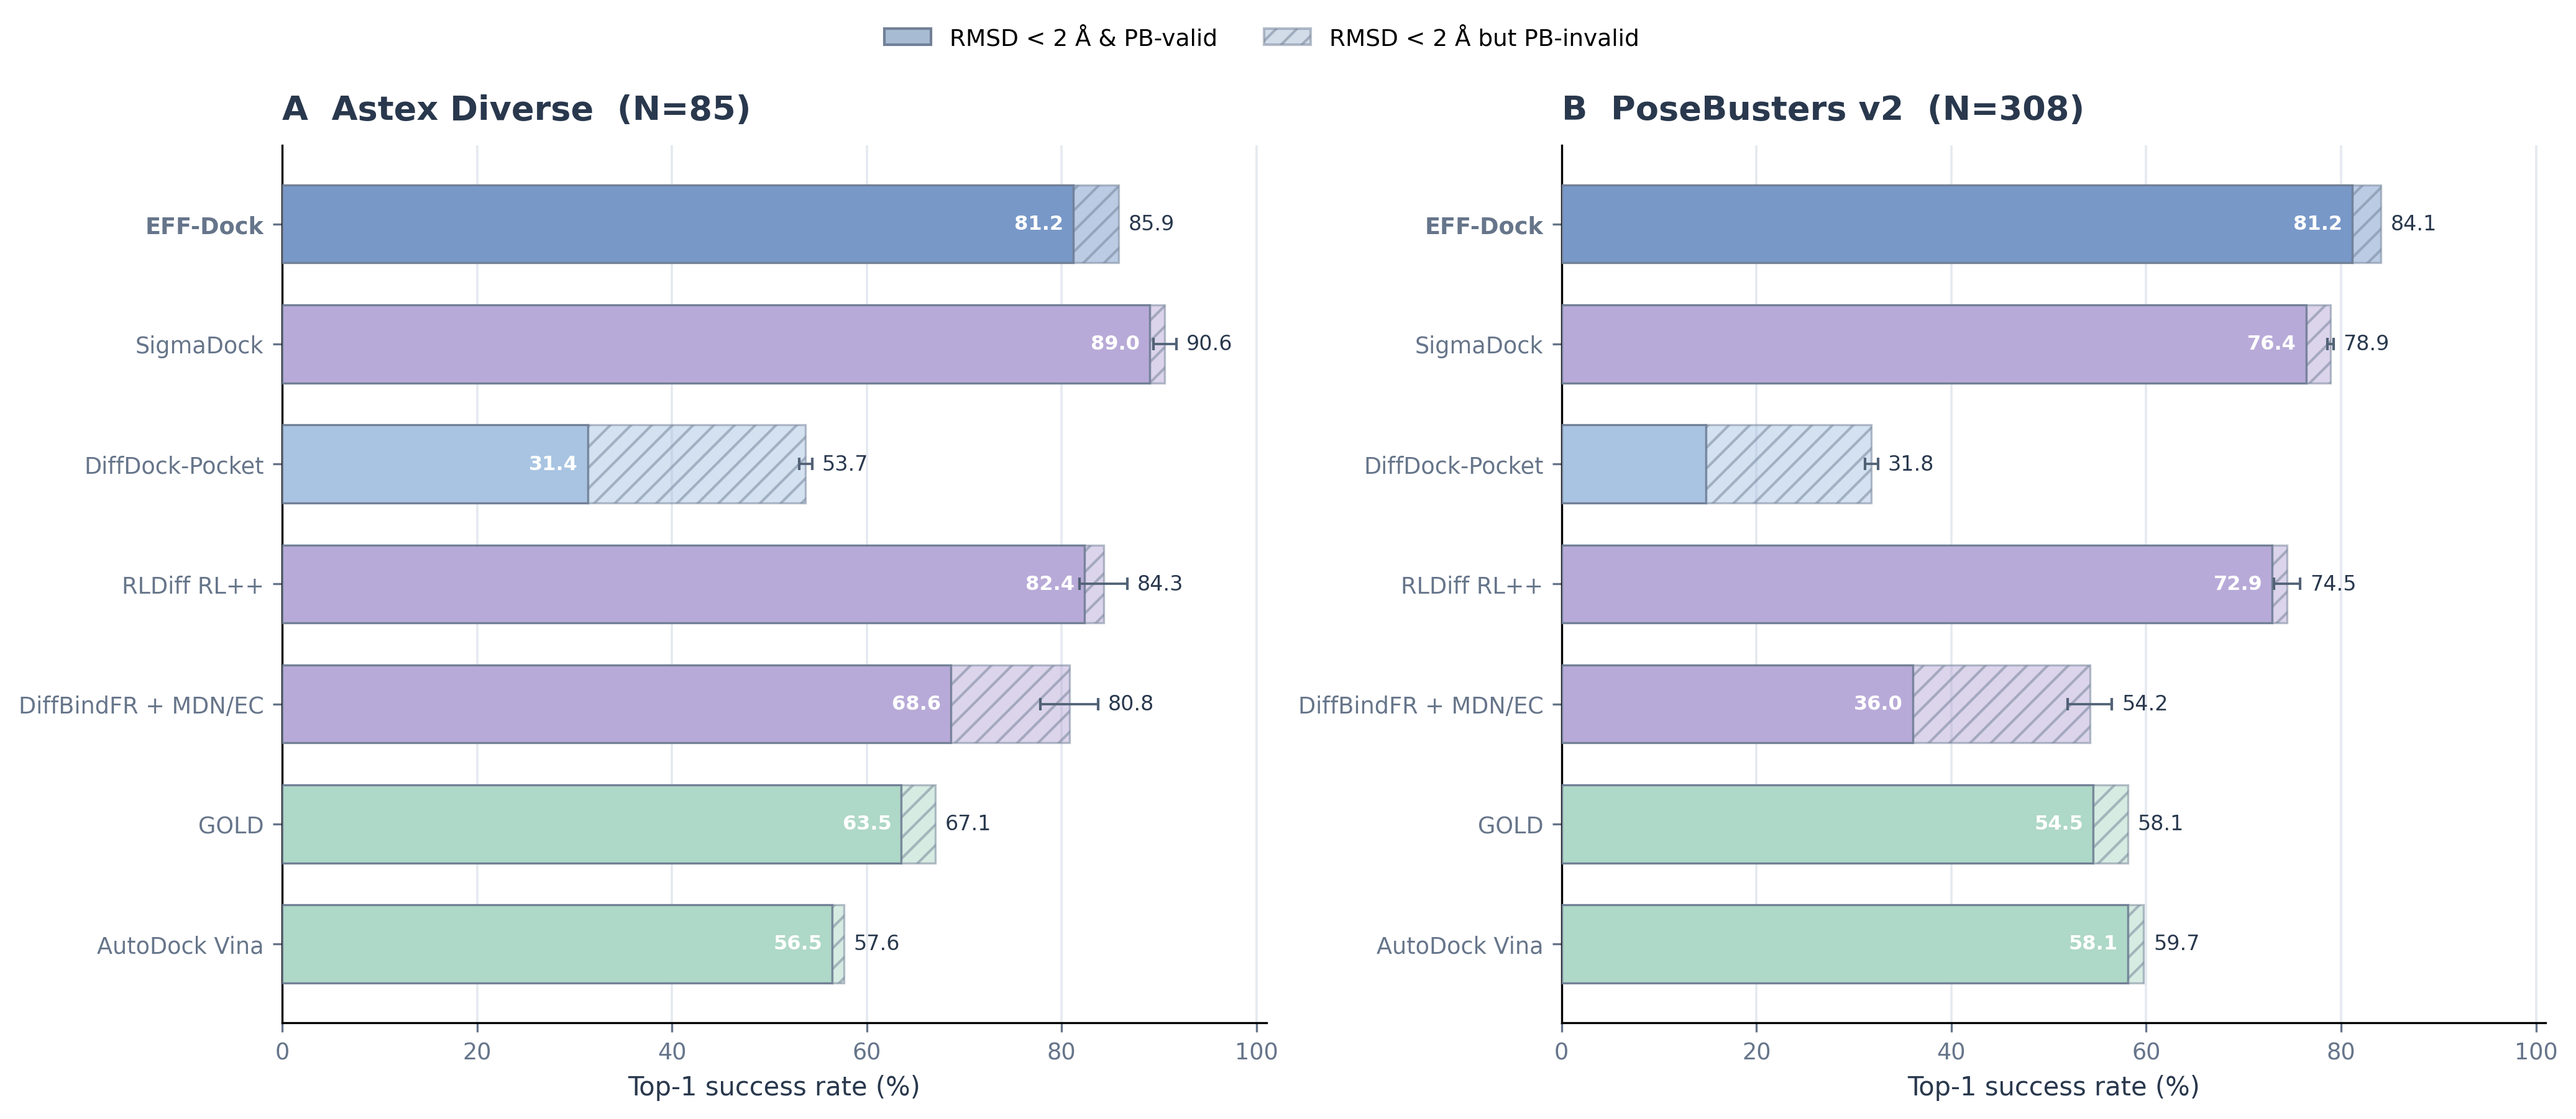
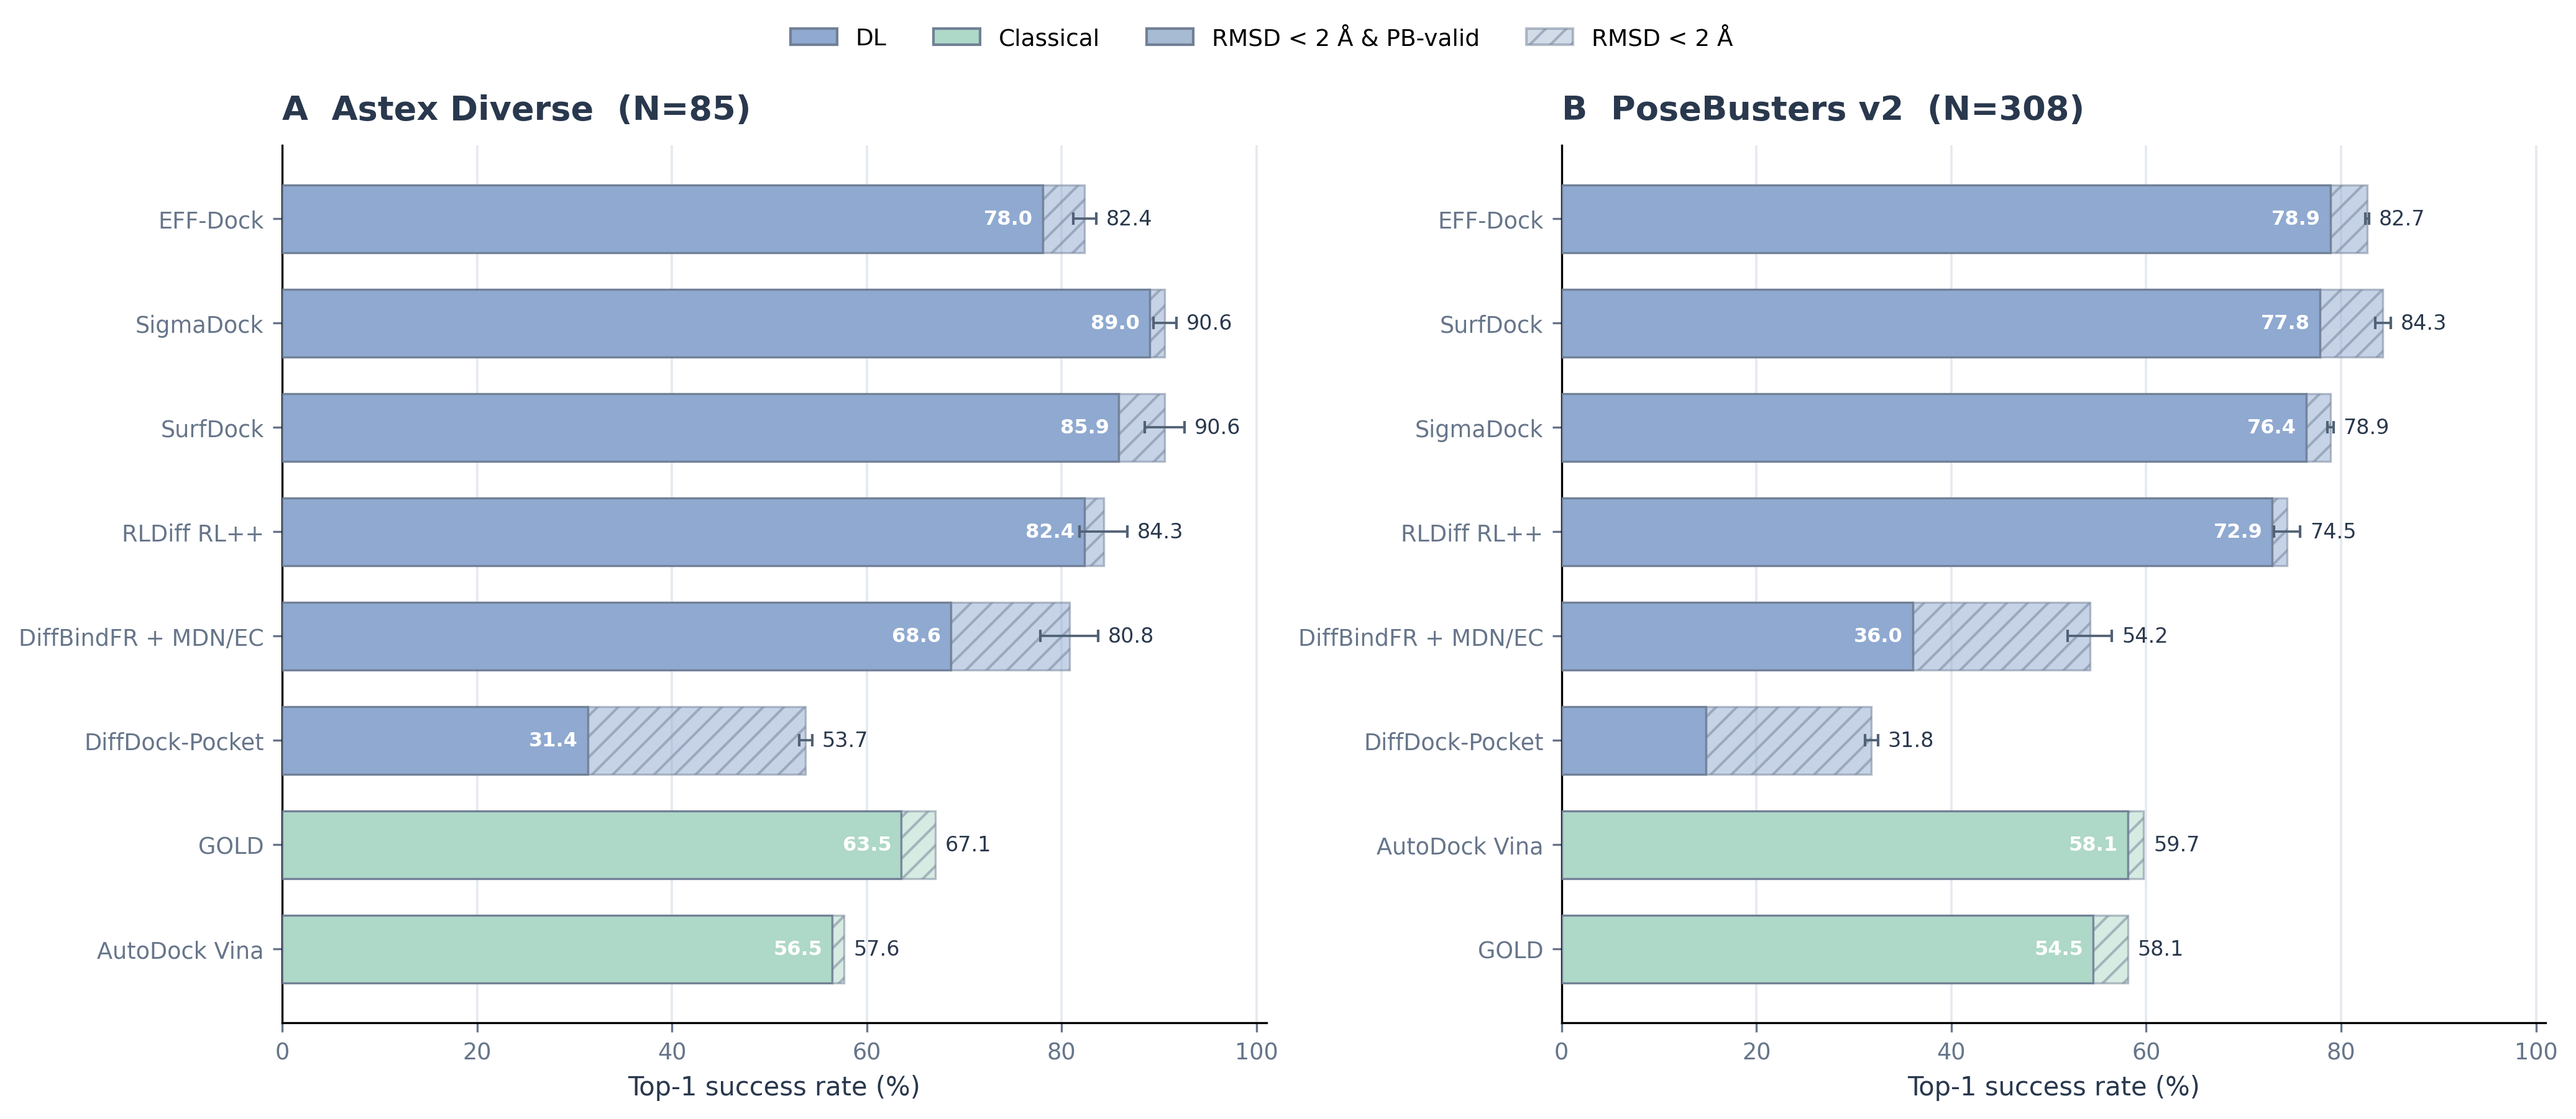
docs: update pocket benchmark comparison figure

diff --git a/benchmarks/figures/plot_current_results_overview.py b/benchmarks/figures/plot_current_results_overview.py
@@ -41,9 +41,7 @@ COLORS = {
     "joint": "#6FAFA8",
     "valid": "#A8D5BA",
     "oracle": "#E7A77E",
-    "ours": "#7898C8",
-    "learning": "#A9C4E2",
-    "hybrid": "#B8AAD8",
+    "dl": "#8FA9D0",
     "classical": "#AED8C7",
 }
 
@@ -76,7 +74,7 @@ def save_figure(fig: plt.Figure, base: Path, dpi: int) -> None:
 def write_csv(path: Path, fieldnames: list[str], rows: list[dict]) -> None:
     path.parent.mkdir(parents=True, exist_ok=True)
     with path.open("w", encoding="utf-8", newline="") as handle:
-        writer = csv.DictWriter(handle, fieldnames=fieldnames)
+        writer = csv.DictWriter(handle, fieldnames=fieldnames, lineterminator="\n")
         writer.writeheader()
         writer.writerows(rows)
 
@@ -402,24 +400,54 @@ def plot_external(payload: dict, output_dir: Path, dpi: int) -> None:
         raise ValueError("external comparison must be supplied-pocket-only")
     fig, axes = plt.subplots(1, 2, figsize=(14.2, 6.2), sharex=True)
     legend_handles = [
+        Patch(facecolor=COLORS["dl"], edgecolor=EDGE, label="DL"),
+        Patch(facecolor=COLORS["classical"], edgecolor=EDGE, label="Classical"),
         Patch(facecolor="#A7BBD2", edgecolor=EDGE, label="RMSD < 2 Å & PB-valid"),
         Patch(
             facecolor="#A7BBD2",
             edgecolor=EDGE,
             alpha=0.5,
             hatch="///",
-            label="RMSD < 2 Å but PB-invalid",
+            label="RMSD < 2 Å",
         ),
     ]
     csv_rows: list[dict] = []
     for ax, key, letter in zip(axes, ("astex", "posebusters"), ("A", "B"), strict=True):
         dataset = payload["datasets"][key]
-        methods = dataset["methods"]
+        # Keep the production EFF-Dock condition first, rank learned docking
+        # methods by Top-1, then retain classical docking as a bottom block.
+        methods = [method for method in dataset["methods"] if method["method"] != "SurfDock"]
+        effdock = [method for method in methods if method["method"] == "EFF-Dock"]
+        if len(effdock) != 1:
+            raise ValueError(f"expected exactly one EFF-Dock row for {key}")
+        rank_key = lambda method: (
+            -float(method["top1_rmsd_lt2"]["mean"]),
+            0 if method["method"] == "SigmaDock" else 1,
+            method["method"],
+        )
+        learned = sorted(
+            (
+                method
+                for method in methods
+                if method["method"] != "EFF-Dock" and method["family"] != "classical"
+            ),
+            key=rank_key,
+        )
+        classical = sorted(
+            (method for method in methods if method["family"] == "classical"),
+            key=rank_key,
+        )
+        methods = effdock + learned + classical
+        if any(method["source_type"] == "our_run" and method["repeat_count"] != 3 for method in methods):
+            raise ValueError(f"every locally executed method must have three repeats for {key}")
         y = np.arange(len(methods))[::-1]
         total = np.asarray([m["top1_rmsd_lt2"]["mean"] for m in methods])
         joint = np.asarray([m["top1_joint_rmsd_lt2_pb_valid"]["mean"] for m in methods])
         total_std = np.asarray([m["top1_rmsd_lt2"].get("std", 0.0) for m in methods])
-        colors = [COLORS[m["family"]] for m in methods]
+        colors = [
+            COLORS["classical"] if m["family"] == "classical" else COLORS["dl"]
+            for m in methods
+        ]
         if np.any(joint > total + 1e-10):
             raise ValueError(f"joint exceeds Top-1 for {key}")
 
@@ -463,12 +491,11 @@ def plot_external(payload: dict, output_dir: Path, dpi: int) -> None:
                     fontweight="bold",
                     color="white",
                 )
-        labels = [m["method"] for m in methods]
+        labels = [
+            "SurfDock" if method["method"] == "SurfDock + force optimization" else method["method"]
+            for method in methods
+        ]
         ax.set_yticks(y, labels)
-        for tick, method in zip(ax.get_yticklabels(), methods, strict=True):
-            if method["family"] == "ours":
-                tick.set_color(COLORS["ours"])
-                tick.set_fontweight("bold")
         ax.set_xlim(0, 101)
         ax.set_xticks(np.arange(0, 101, 20))
         ax.set_xlabel("Top-1 success rate (%)", fontsize=10, color=INK)
@@ -504,7 +531,7 @@ def plot_external(payload: dict, output_dir: Path, dpi: int) -> None:
         handles=legend_handles,
         loc="upper center",
         bbox_to_anchor=(0.5, 1.0),
-        ncol=2,
+        ncol=4,
         frameon=False,
         fontsize=9,
     )

diff --git a/docs/results/current_overview/README.md b/docs/results/current_overview/README.md
@@ -13,8 +13,10 @@ excluded.
   results across Astex Diverse, PoseBusters v2, PhiBench, FoldBench pocket, and
   auxiliary OpenBind cohorts.
 - `figures/pocket_model_comparison.{png,pdf}`: supplied-pocket-only Top-1
-  comparison. Solid fill is joint RMSD `<2 Å` and PB-valid success; hatching is
-  the PB-invalid remainder of RMSD `<2 Å` success.
+  comparison. Every locally executed DL method, including EFF-Dock,
+  uses three repeats; error bars are sample SD. Solid fill is joint RMSD
+  `<2 Å` and PB-valid success; the hatched extension completes the RMSD
+  `<2 Å` rate.
 - `figures/pocket_cutoff_jitter_legacy_heatmap.{png,pdf}`: the complete legacy
   N80/S25 cutoff-by-center-jitter matrix. This is explicitly separated from
   the promoted U70k/N100/S10 production stack.
@@ -40,7 +42,7 @@ paper-reported cells do not claim repeat variance.
 
 - `outputs/benchmarks/effdock_pocket_cutoff_robustness_runs/cutoff-r3-production-20260901-r2/report.json`
 - `outputs/benchmarks/effdock_pocket_cutoff_jitter_robustness_runs/production-jitter-r3-20260904-v3/report.json`
-- `benchmarks/results/external_models/effdock_u70k_benchmark.json`
+- `outputs/benchmarks/effdock_pocket_prior_robustness_extension_runs/production-cutoff14-sigma-r3-20260906-v1/report.json`
 - `benchmarks/results/external_models/temporal_literature.json`
 - `outputs/benchmarks/s50_raw_refined_confidence_temporal_external_runs/d97d5eb907acc485dfde4b7fcf88d87b4d5fd8576014d2cfb89dd0518b9c9bb4/report/summary.json`
 - `benchmarks/results/external_models/pocket_only_pb_valid_comparison.json`
